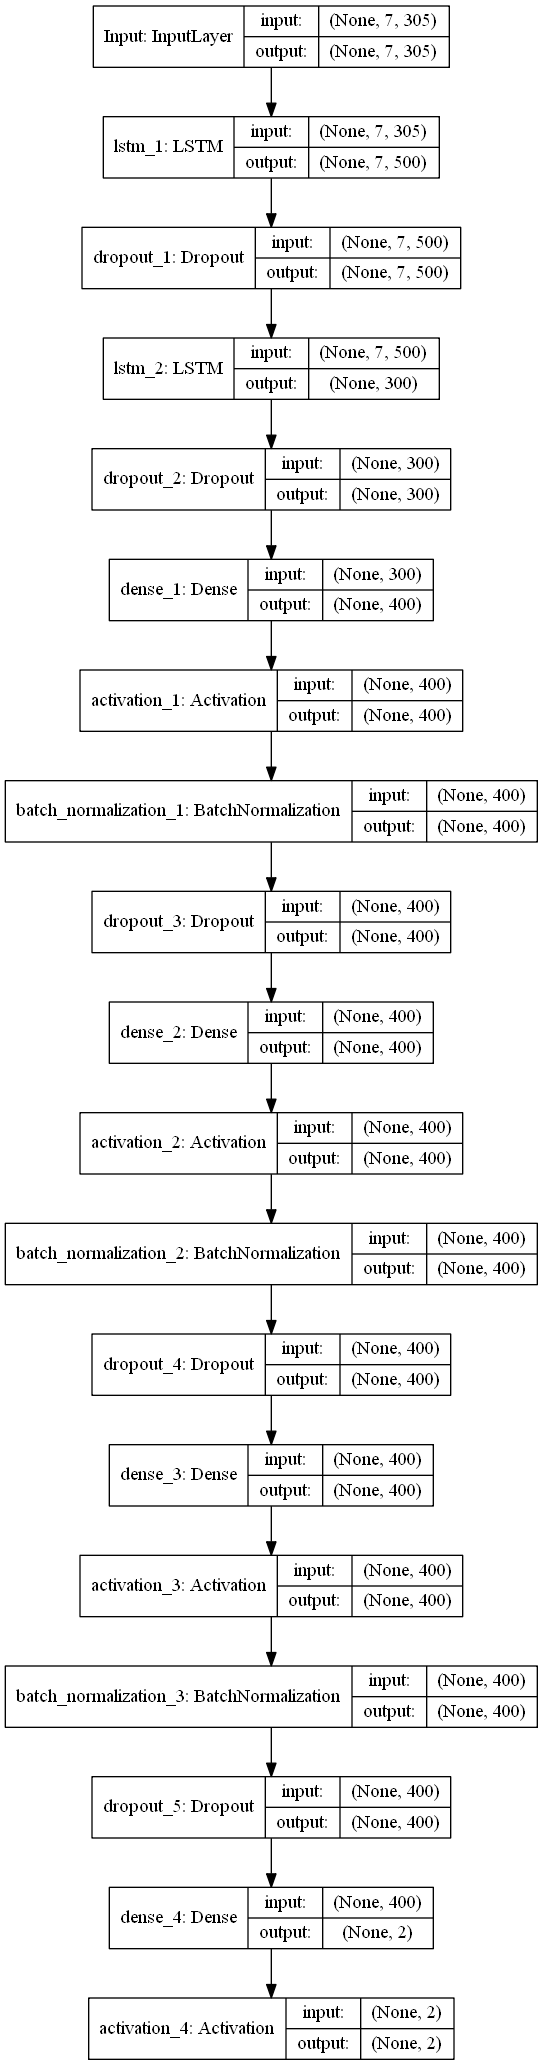
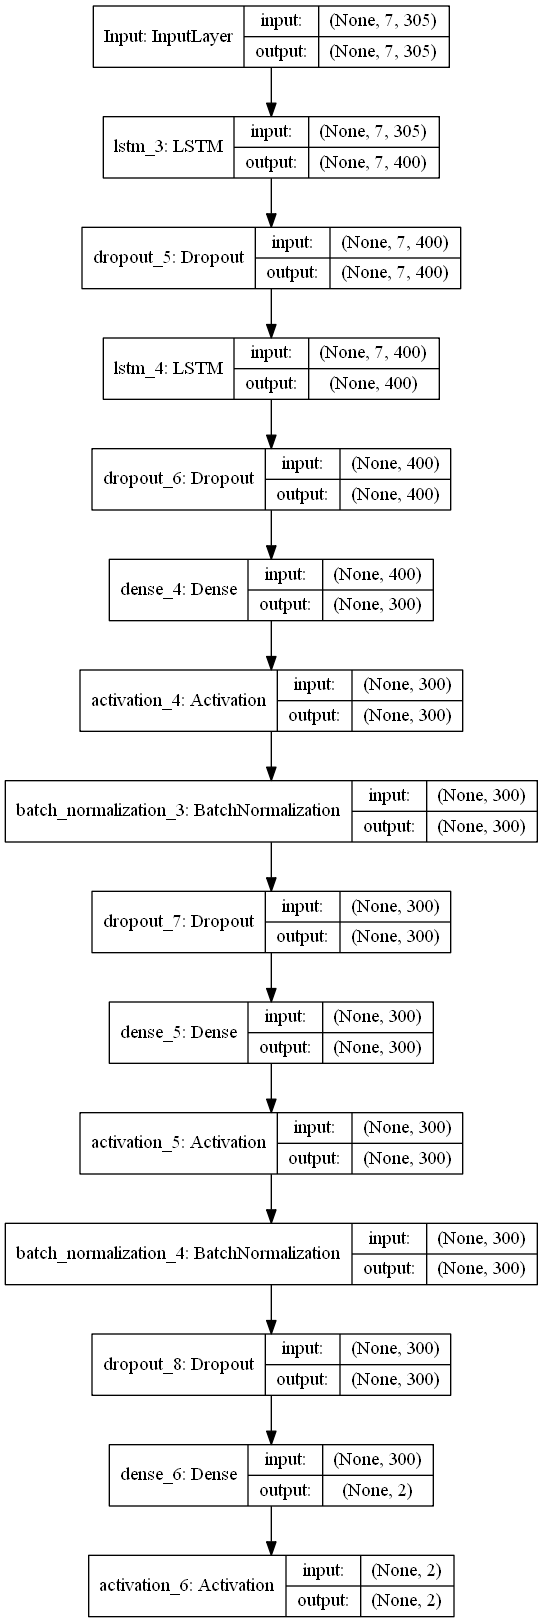
Got Worse ):

Changed region(s): [[0.0, 0.0, 1.0, 1.0]]

diff --git a/lab3/MultiHeadlineTickForcasting.py b/lab3/MultiHeadlineTickForcasting.py
@@ -277,7 +277,7 @@ def split_data(X, Y, test_indices):
     return trainX, trainY, testX, testY
 
 
-# In[6]:
+# In[12]:
 
 
 def correct_sign_acc(y_true, y_pred):
@@ -292,33 +292,28 @@ def get_model():
     
     model_input = Input(shape=(tick_window, 305), name="Input")
     
-    rnn = LSTM(500, return_sequences=True)(model_input)
+    rnn = LSTM(400, return_sequences=True)(model_input)
     rnn = Dropout(0.3)(rnn)
     
-    rnn = LSTM(300, return_sequences=False)(rnn)
+    rnn = LSTM(400, return_sequences=False)(rnn)
     rnn = Dropout(0.3)(rnn)
     
-    dense = Dense(400)(rnn)
+    dense = Dense(300)(rnn)
     dense = Activation('selu')(dense)
     dense = BatchNormalization()(dense)
-    dense = Dropout(0.5)(dense)
+    dense = Dropout(0.3)(dense)
     
-    dense = Dense(400)(dense)
+    dense = Dense(300)(dense)
     dense = Activation('selu')(dense)
     dense = BatchNormalization()(dense)
-    dense = Dropout(0.5)(dense)
-    
-    dense = Dense(400)(dense)
-    dense = Activation('selu')(dense)
-    dense = BatchNormalization()(dense)
-    dense = Dropout(0.5)(dense)
+    dense = Dropout(0.3)(dense)
     
     dense = Dense(2)(dense)
     pred_output = Activation('softmax')(dense)
     
     model = Model(inputs=model_input, outputs=pred_output)
     
-    model.compile(optimizer=RMSprop(), loss='categorical_crossentropy', metrics=['acc'])
+    model.compile(optimizer=RMSprop(), loss='mse', metrics=['acc'])
     
     return model
 
@@ -340,7 +335,7 @@ if __name__ == "__main__":
     print(trainX.shape, testY.shape)
 
 
-# In[8]:
+# In[13]:
 
 # TRAIN MODEL
 
@@ -384,7 +379,7 @@ if __name__ == "__main__":
     plt.show()
 
 
-# In[9]:
+# In[14]:
 
 # AoC
 
@@ -432,7 +427,7 @@ def predict(stock, model=None, vec_model=None, current_date=None, predict_date=N
     
 
 
-# In[ ]:
+# In[11]:
 
 # # [TEST] Spot Testing
 
